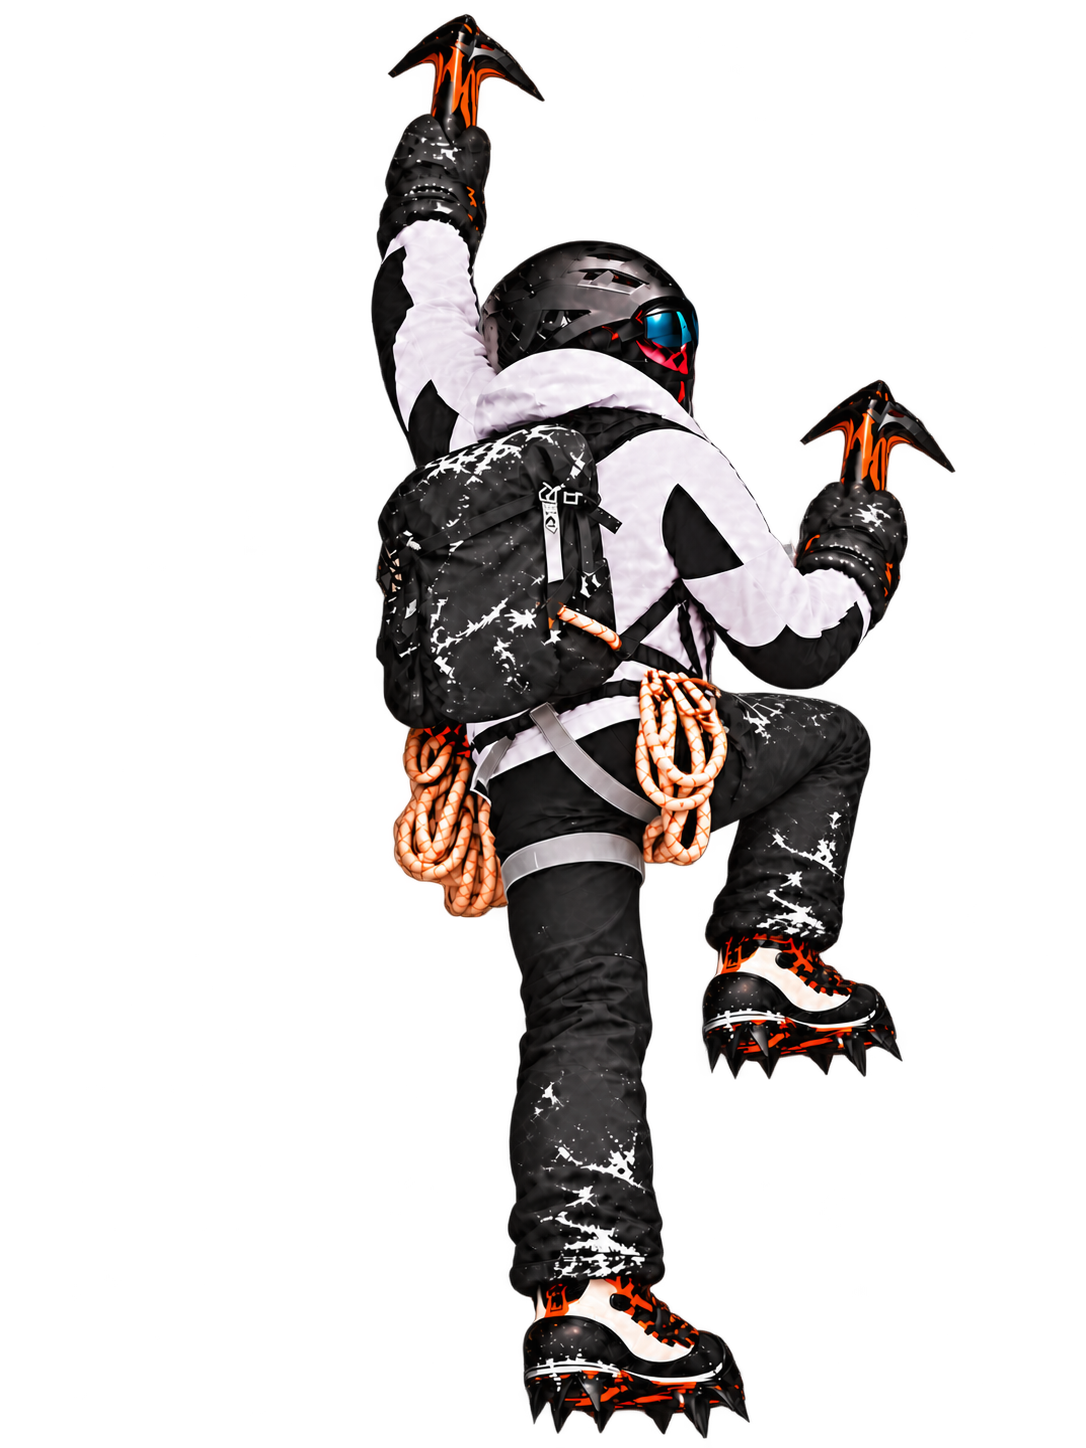
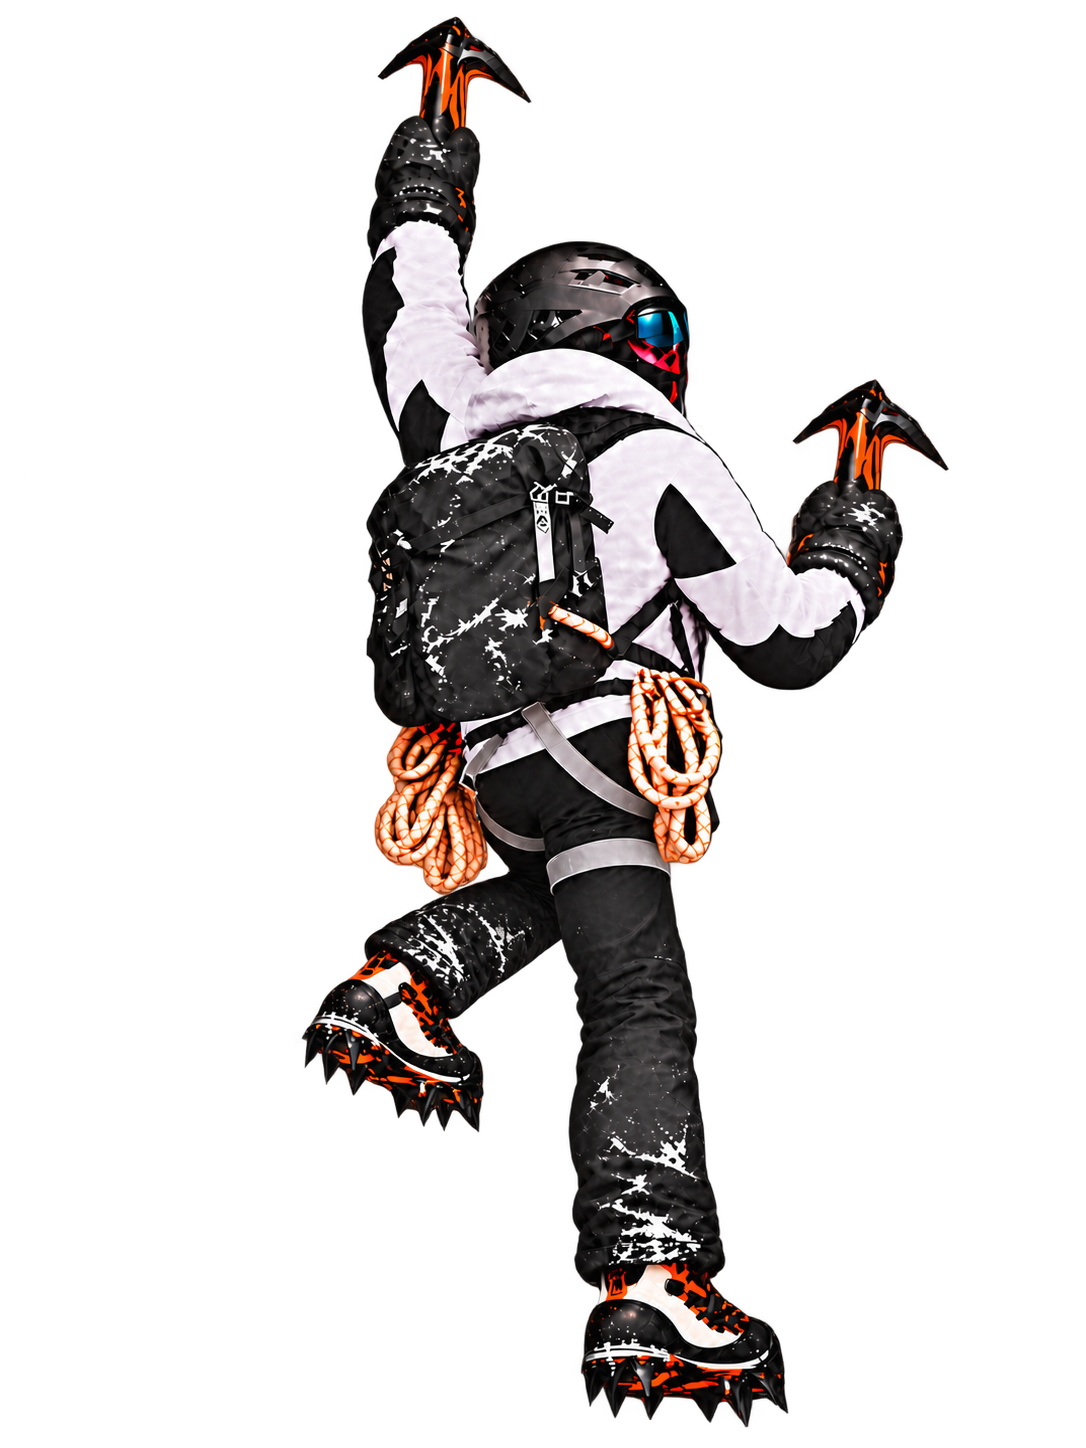
Clarify left-leg climb and remove foot-turn pose

Changed region(s): [[0.2735, 0.0, 0.8508, 0.9945], [0.8508, 0.3108, 0.8812, 0.3419], [0.6685, 0.3108, 0.6989, 0.3419]]

diff --git a/_includes/expedition.html b/_includes/expedition.html
@@ -22,7 +22,7 @@
         <ellipse class="expedition-contact-shadow" data-expedition-contact rx="17" ry="5" filter="url(#expedition-contact-blur)" />
         <g class="expedition-climber" data-expedition-climber>
           <svg x="-54" y="-106" width="88" height="117" viewBox="0 0 400 533" overflow="visible">
-            <image data-climber-frame-primary href="{{ '/assets/media/ascent-climber-frame-01.webp' | relative_url }}?v=ascent-16" width="400" height="533" />
+            <image data-climber-frame-primary href="{{ '/assets/media/ascent-climber-frame-01.webp' | relative_url }}?v=ascent-17" width="400" height="533" />
           </svg>
         </g>
       </g>

diff --git a/_layouts/default.html b/_layouts/default.html
@@ -19,7 +19,7 @@
   <script src="{{ '/assets/js/site.js' | relative_url }}" defer></script>
   <script src="{{ '/assets/js/experience.js' | relative_url }}" defer></script>
   <script src="{{ '/assets/js/contact.js' | relative_url }}" defer></script>
-  {% if page.url == '/journey/' %}<script src="{{ '/assets/js/expedition.js' | relative_url }}?v=ascent-16" defer></script>{% endif %}
+  {% if page.url == '/journey/' %}<script src="{{ '/assets/js/expedition.js' | relative_url }}?v=ascent-17" defer></script>{% endif %}
 </head>
 <body data-baseurl="{{ site.baseurl }}">
   {% include header.html %}

diff --git a/assets/js/expedition.js b/assets/js/expedition.js
@@ -16,7 +16,7 @@
   const climber = root.querySelector('[data-expedition-climber]');
   const primaryFrame = climber.querySelector('[data-climber-frame-primary]');
   const firstFrameUrl = primaryFrame.getAttribute('href');
-  const frameUrls = Array.from({ length: 13 }, (_, index) =>
+  const frameUrls = Array.from({ length: 12 }, (_, index) =>
     firstFrameUrl.replace(/01\.webp/, `${String(index + 1).padStart(2, '0')}.webp`));
   // Every complete-body image is registered to the same goggle position at
   // export time. Only one fully opaque pose is drawn at once: crossfading

diff --git a/docs/ASCENT_ART.md b/docs/ASCENT_ART.md
@@ -9,8 +9,8 @@ The mountain backdrop, close ice wall and climber poses are original generated i
 - Foreground source: `assets/img/ascent-icewall-illustration.png`; responsive alpha WebP: `assets/media/ascent-icewall-800.webp` and `ascent-icewall-480.webp`, with `ascent-icewall-480.avif` on supported mobile browsers.
 - Earlier orange climber source: `assets/img/ascent-climber-frames.png`; its first transparent pose remains at `assets/media/ascent-climber-01.webp` for provenance, but is no longer loaded by the page. That sheet did not provide the current black-and-white frame sequence.
 - Earlier black-and-white climber source: `assets/img/ascent-climber-alpine.png` (1086 × 1448, transparent); optimized single pose: `assets/media/ascent-climber-alpine.webp`. It informed the current clothing, gear and view angle. The hinged raster-limb rig that cut up this painting was removed after it repeatedly produced broken-looking joints.
-- Current animation sources: thirteen individual transparent **complete figure** drawings in `assets/img/ascent-climber-sequence/pose-01.png` through `pose-13.png`. The intermediate drawings were edited from preceding whole poses, retaining the right-facing rear-three-quarter character and right-facing tools. The gait takes its restrained alternating hand/foot rhythm from the user-supplied [ladder-climbing animation reference](https://www.youtube.com/watch?v=d-m-HuN-PkU); no ladder appears on the site. Both legs and crampon boots are visible in every image. Earlier 2 × 2 sprite sheets are preserved in Git history. `npm run build:climber-frames` aligns the goggles and exports thirteen 400 × 533 WebPs. `node scripts/preview_climber_frames.cjs` and `node scripts/preview_climber_motion.cjs` produce visual QA contact sheets in `test-results/`.
-- The thirteen whole-body frames span **two** journal entries, retaining the approved scroll pace. Leg motion is constrained to three clear states: both legs straight (01, 08–09), anatomical left/far leg bent while right supports straight (02–07), and anatomical right/near leg bent while left supports straight (10–13). The sequence returns from right-bent to the both-straight first frame. Identical pairs hold selected poses while the existing arm reach order continues across the cycle. Intermediate half-bends and boot-only turns were removed. Only one complete image is visible at a time; the whole-image crossfade remains removed because it made the climber translucent. No separate arms, legs, jacket panels or gear are rotated or resized. The sequence was checked as a frame contact sheet and at 26 positions in the rendered wall scene. This remains an illustrated sequence, not filmed or physically simulated climbing; state changes are discrete. Reduced-motion holds the both-straight first pose. The outfit is unbranded black-and-white alpine technical gear. Asset/script URL version: `ascent-16`.
+- Current animation sources: twelve individual transparent **complete figure** drawings in `assets/img/ascent-climber-sequence/pose-01.png` through `pose-12.png`. The intermediate drawings were edited from preceding whole poses, retaining the right-facing rear-three-quarter character and right-facing tools. The gait takes its restrained alternating hand/foot rhythm from the user-supplied [ladder-climbing animation reference](https://www.youtube.com/watch?v=d-m-HuN-PkU); no ladder appears on the site. Both legs and crampon boots are visible in every image. Earlier 2 × 2 sprite sheets are preserved in Git history. `npm run build:climber-frames` aligns the goggles and exports twelve 400 × 533 WebPs. `node scripts/preview_climber_frames.cjs` and `node scripts/preview_climber_motion.cjs` produce visual QA contact sheets in `test-results/`.
+- The twelve whole-body frames span **two** journal entries, retaining the approved scroll pace. Leg motion is constrained to three clear states: both legs straight (01, 08–09), anatomical left leg bent with its raised boot visibly to image-left of the straight right support leg (02–07), and anatomical right leg bent to image-right while the left supports straight (10–12). The boot-only-turn drawing previously at frame 10 was removed; the following drawings were renumbered. The sequence returns from right-bent to the both-straight first frame. Identical pairs hold selected poses while the existing arm reach order continues across the cycle. Only one complete image is visible at a time; the whole-image crossfade remains removed because it made the climber translucent. No separate arms, legs, jacket panels or gear are rotated or resized. The sequence was checked as a frame contact sheet and at 26 positions in the rendered wall scene. This remains an illustrated sequence, not filmed or physically simulated climbing; state changes are discrete. Reduced-motion holds the both-straight first pose. The outfit is unbranded black-and-white alpine technical gear. Asset/script URL version: `ascent-17`.
 - The Home identity section reuses the existing Everest illustration through its 800 px WebP derivative. No new mountain asset was generated.
 
 Movement references: [Petzl's ice-climbing technique video](https://www.petzl.com/int/en/sport/tech-tips/basic-techniques/ice-climbing-technique---the-basics/Cascade-gestuelle_SPO_a771r000000PFoJAAW.html), [Petzl's Ice Climbing Basics access book](https://s3.amazonaws.com/Petzl_home_Prod/Accessbook/ACCESSBOOK-ICE-CLIMBING-EN-2018.pdf), and [REI's ice-climbing guidance](https://www.rei.com/learn/expert-advice/ice-climbing-waterfalls-alpine-walls.html) emphasize stable tool/foot placements and rising through the legs. These sources informed the illustration's rhythm; the individual drawn poses are not climbing instruction or a physical simulation.

diff --git a/PROJECT_STATUS.md b/PROJECT_STATUS.md
@@ -4,7 +4,7 @@ Updated: October 12, 2026 (America/Los_Angeles).
 
 ## Current state
 
-**The approved site design remains intact. The dedicated Ascent uses thirteen complete black-and-white mountaineer frames with three clear leg states:** both straight, left bent/right straight, and right bent/left straight. The cycle begins with both straight, then alternates through each single-leg raise with a straight stance between them. Both boots continue to point toward the image-right wall. A single opaque full-body pose is shown at a time; one cycle still spans two entries, preserving scroll pace. The self-service Markdown workflow, original content, four navigation destinations, existing links and approved page structure remain intact. Earlier Firefox/WebKit results predate this latest refinement; their executables are unavailable in this environment. Nothing has been pushed, merged or deployed.
+**The approved site design remains intact. The dedicated Ascent uses twelve complete black-and-white mountaineer frames with three clear leg states:** both straight, left bent/right straight, and right bent/left straight. The raised left boot now appears on image-left of the right support leg, making the left and right phases visually distinct. The foot-turn-only pose has been removed. A single opaque full-body pose is shown at a time; one cycle still spans two entries, preserving scroll pace. The self-service Markdown workflow, original content, four navigation destinations, existing links and approved page structure remain intact. Earlier Firefox/WebKit results predate this latest refinement; their executables are unavailable in this environment. Nothing has been pushed, merged or deployed.
 
 - Active repository: `C:/Users/super/Documents/ChatGPT/portfolio website remodel/portfolio-v2`.
 - Branch: `codex/portfolio-v2`, based on `da50b14` (`main`).
@@ -13,7 +13,16 @@ Updated: October 12, 2026 (America/Los_Angeles).
 - Local preview: `http://127.0.0.1:4173/`, serving production `_site` output.
 - Parent workspace `PROJECT_STATUS.md` points here. This is the canonical handoff.
 
-## October 12 three-state leg cycle — latest handoff
+## October 12 left-leg clarity and foot-turn removal — latest handoff
+
+- Completed: edited the complete figure art for the three left-leg-bent arm positions (02/03, 04/05, 06/07) so the raised left knee and boot project to image-left of the straight right support leg; both boot toes still point toward image-right. Removed the ineffective boot-turn drawing formerly at frame 10 and renumbered 11–13 as 10–12. Regenerated twelve WebPs and bumped Ascent asset URLs to `ascent-17`. Kept the page design, mountain, torso/arm reach order, right-facing outfit, camera, easing, and two-entry cycle duration.
+- Currently in progress: none after this scoped correction. Local preview only, on `codex/portfolio-v2`.
+- Decisions: use twelve complete, opaque raster drawings with no hinged/composited limbs or whole-figure crossfades. Keep the raised left boot on image-left to distinguish it from the right-leg raise. The same full-frame drawing is held for deliberate adjacent pairs; the removed frame is not replaced with a pointless foot pivot.
+- Known issues: slowly scrubbing still reveals discrete transitions between illustrated states; this is not video or a physically solved climb. The raised left boot is drawn outward for leg readability, so exact wall/foothold contact remains illustrative. Generated full-body edits cause minor painted detail changes outside the legs, although head/arm poses and gear remain consistent. Real-device judgment, Firefox/WebKit runners, branch-only Linux CI and live custom-domain verification remain outstanding. Nothing has been pushed or merged.
+- Testing: production Jekyll build; twelve-frame source sheet, 26-position rendered wall sheet and desktop scene visually inspected; four actual wheel gestures forward/reverse sampled at 307–309 animation frames each, all twelve frames in order, zero skipped poses. Pixel regression now asserts that the elevated boot is on image-left in frames 02–07 and image-right in 10–12. Full Chrome suite passed (94 routes, 132 responsive pages, 22 axe checks, six interaction groups, 10 experience groups, 11 editorial groups, 10 Ascent groups). Site integrity passed (26 originals unchanged, nine post routes, 47 pages, 1,688 local references). JavaScript syntax, Git whitespace and local `/journey/` HTTP 200 verified.
+- **Exact recommended next task:** review the revised left-leg phase and the 09→10 right-leg change on an actual desktop and phone at slow and moderate scroll speed. If accepted, restore Firefox/WebKit test runners, run branch-only Linux CI, and verify the custom domain before any production merge. Preserve the approved site and do not push or merge into `main` until fully tested and production-ready.
+
+## October 12 three-state leg cycle — earlier handoff, superseded where noted above
 
 - Completed: replaced the partial leg-bend drawings with three unambiguous positions: frame 01 and 08–09 have both legs straight; 02–07 have the anatomical left/far leg bent and right leg straight; 10–13 have the right/near leg bent and left leg straight. The next loop begins on both straight. Each frame remains a fully opaque complete illustration; selected duplicate frames hold poses while the arm reach progresses. Kept the mountain scene, site content/layout, route, camera, scroll easing, two-entry cycle duration and right-facing outfit/tools. Regenerated all 13 WebPs and bumped Ascent asset URLs to `ascent-16`.
 - Currently in progress: none after committing this scoped correction. Local preview only, on `codex/portfolio-v2`.
